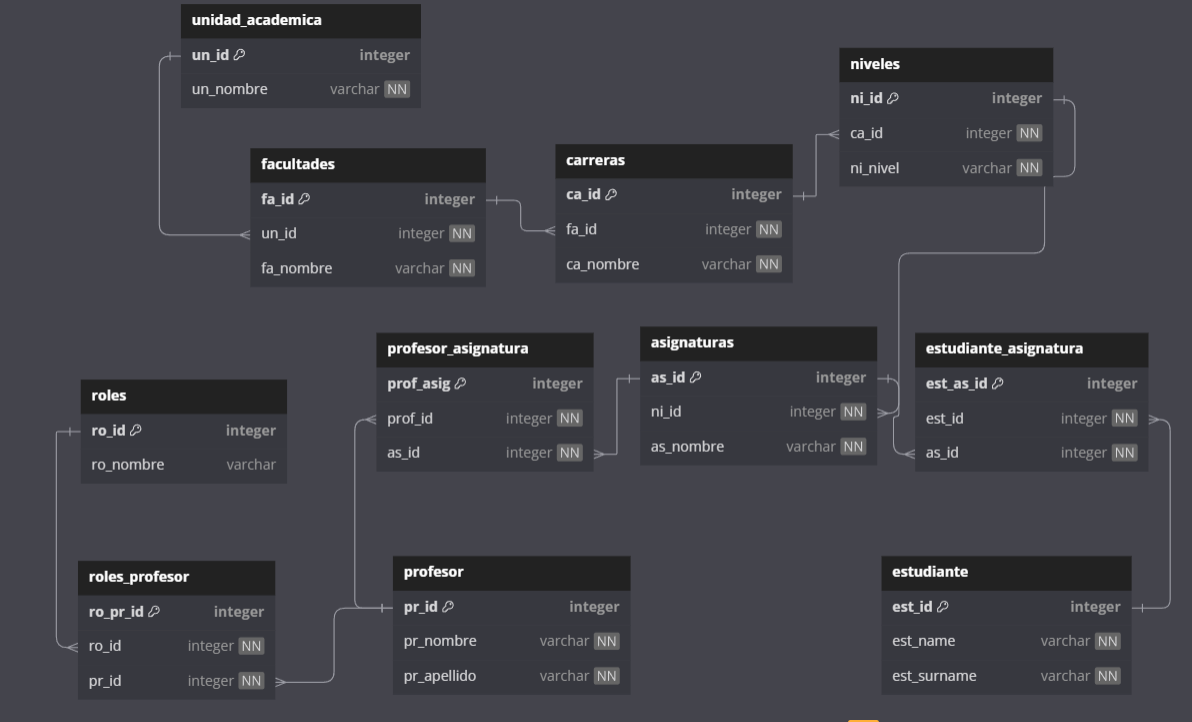
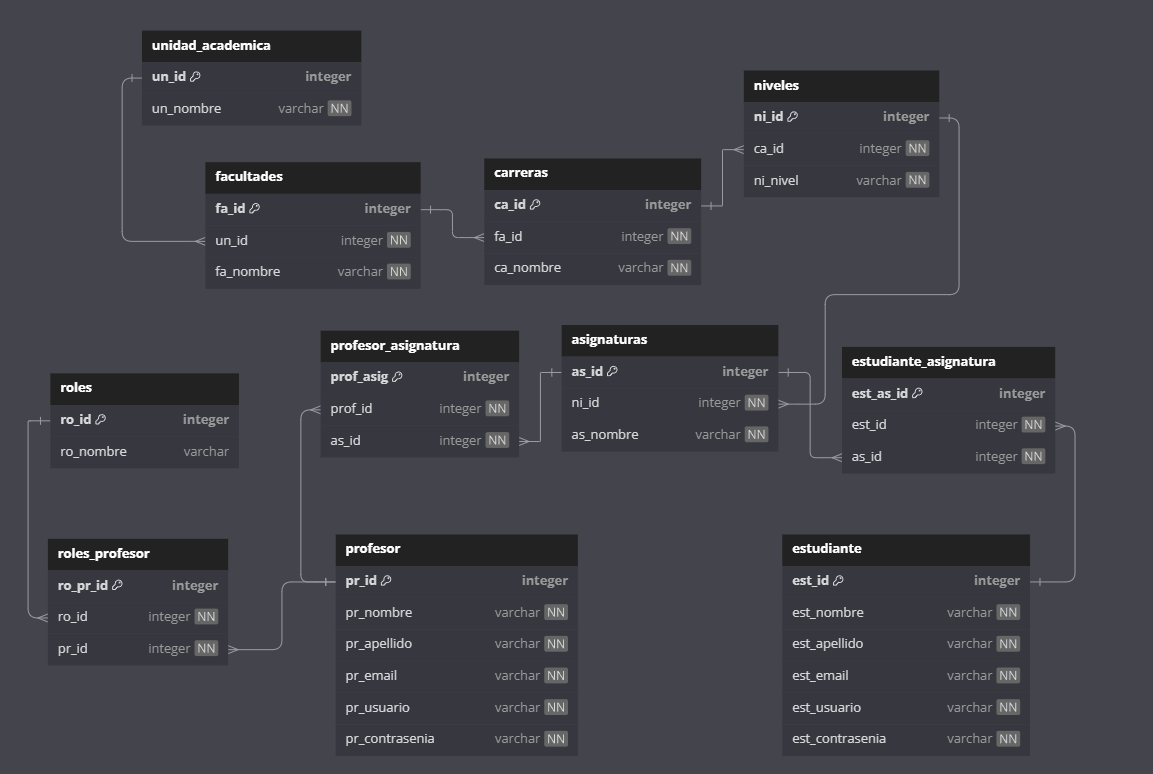
docs(table): change database and change documentation

diff --git a/src/table.js b/src/table.js
@@ -38,8 +38,6 @@ const table = `
   }
 </style>
 
-<!-- Aquí tu tabla HTML -->
-
 <table border="1">
   <thead>
     <tr>
@@ -214,7 +212,10 @@ const table = `
         "profesor": {
           "pr_id": 1,
           "pr_nombre": "Juan",
-          "pr_apellido": "Pérez"
+          "pr_apellido": "Pérez",
+          "pr_email": "juperez@utn.edu.ec",
+          "pr_contrasenia": "12345",
+          "pr_usuario": "D100200301"
         },
         "asignaturas": [
           {
@@ -245,17 +246,26 @@ const table = `
         {
           "pr_id": 1,
           "pr_nombre": "Juan",
-          "pr_apellido": "Pérez"
+          "pr_apellido": "Pérez",
+          "pr_email": "juperez@utn.edu.ec",
+          "pr_contrasenia": "12345",
+          "pr_usuario": ""D100200301"
         },
         {
           "pr_id": 2,
           "pr_nombre": "Laura",
-          "pr_apellido": "González"
+          "pr_apellido": "González",
+          "pr_email": "lagonzalez@utn.edu.ec",
+          "pr_contrasenia": "12345",
+          "pr_usuario": "D100200302"
         },
         {
           "pr_id": 3,
           "pr_nombre": "Carlos",
-          "pr_apellido": "Martínez"
+          "pr_apellido": "Martínez",
+          "pr_email": "camartinez@utn.edu.ec",
+          "pr_contrasenia": "12345",
+          "pr_usuario": "D100200303"
         }
       ]</code></pre>
       </td>
@@ -343,6 +353,9 @@ const table = `
                 "est_id": 1,
                 "est_nombre": "Ana",
                 "est_apellido": "Vega"
+                "est_email": "anvega@utn.edu.ec",
+                "est_contrasenia": "12345",
+                "est_usuario": "E100200301"
               }
           ],
           "nivel":{
@@ -375,17 +388,26 @@ const table = `
           {
             "est_id": 1,
             "est_nombre": "Ana",
-            "est_apellido": "Vega"
+            "est_apellido": "Vega",
+            "est_email": "anvega@utn.edu.ec",
+            "est_contrasenia": "12345",
+            "est_usuario": "E100200301"
           },
           {
             "est_id": 2,
             "est_nombre": "Pedro",
-            "est_apellido": "Lopez"
+            "est_apellido": "Lopez",
+            "est_email": "pelopez@utn.edu.ec",
+            "est_contrasenia": "12345",
+            "est_usuario": "E100200302"
           },
           {
             "est_id": 3,
             "est_nombre": "María",
-            "est_apellido": "Ruiz"
+            "est_apellido": "Ruiz",
+            "est_email": "maruiz@utn.edu.ec",
+            "est_contrasenia": "12345",
+            "est_usuario": "E100200303"
           }
         ]
         </code></pre>

diff --git a/routes/index.route.js b/routes/index.route.js
@@ -6,7 +6,7 @@ const {
   getNiveles,
   getProfesores,
   getAsignaturas,
-  getEstudianes,
+  getEstudiantes,
   getRoles
 } = require('../controllers/utndb.controller');
 
@@ -28,8 +28,8 @@ router.get('/profesores/:id', getProfesores);
 router.get('/asignaturas', getAsignaturas);
 router.get('/asignaturas/:id', getAsignaturas);
 
-router.get('/estudiantes', getEstudianes);
-router.get('/estudiantes/:id', getEstudianes);
+router.get('/estudiantes', getEstudiantes);
+router.get('/estudiantes/:id', getEstudiantes);
 
 router.get('/roles', getRoles);
 router.get('/roles/:id', getRoles);

diff --git a/controllers/utndb.controller.js b/controllers/utndb.controller.js
@@ -187,7 +187,7 @@ const getRoles = async (req, res) => {
   }
 };
 
-const getEstudianes = async (req, res) => {
+const getEstudiantes = async (req, res) => {
   try {
     const { id } = req.params;
     if (id) {
@@ -239,5 +239,5 @@ module.exports = {
   getAsignaturas,
   getProfesores,
   getRoles,
-  getEstudianes,
+  getEstudiantes,
 };
